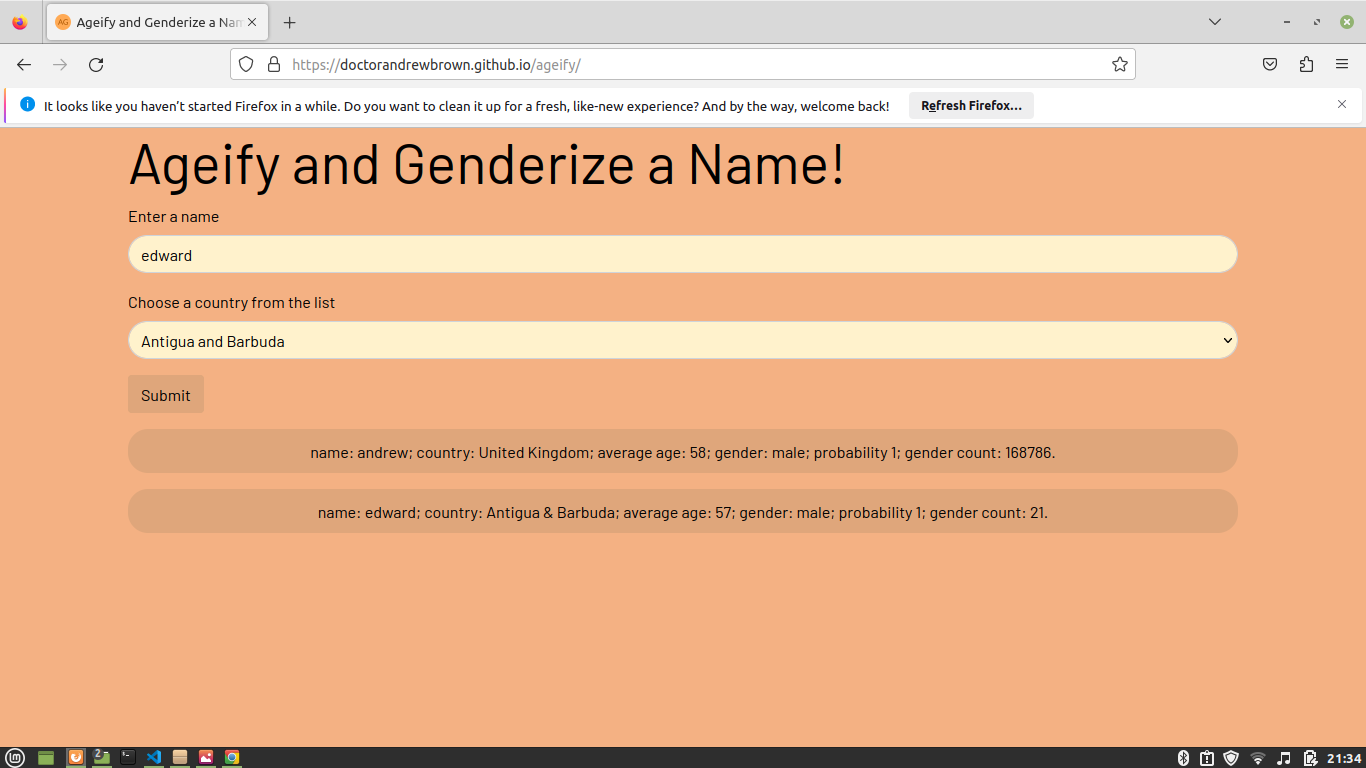
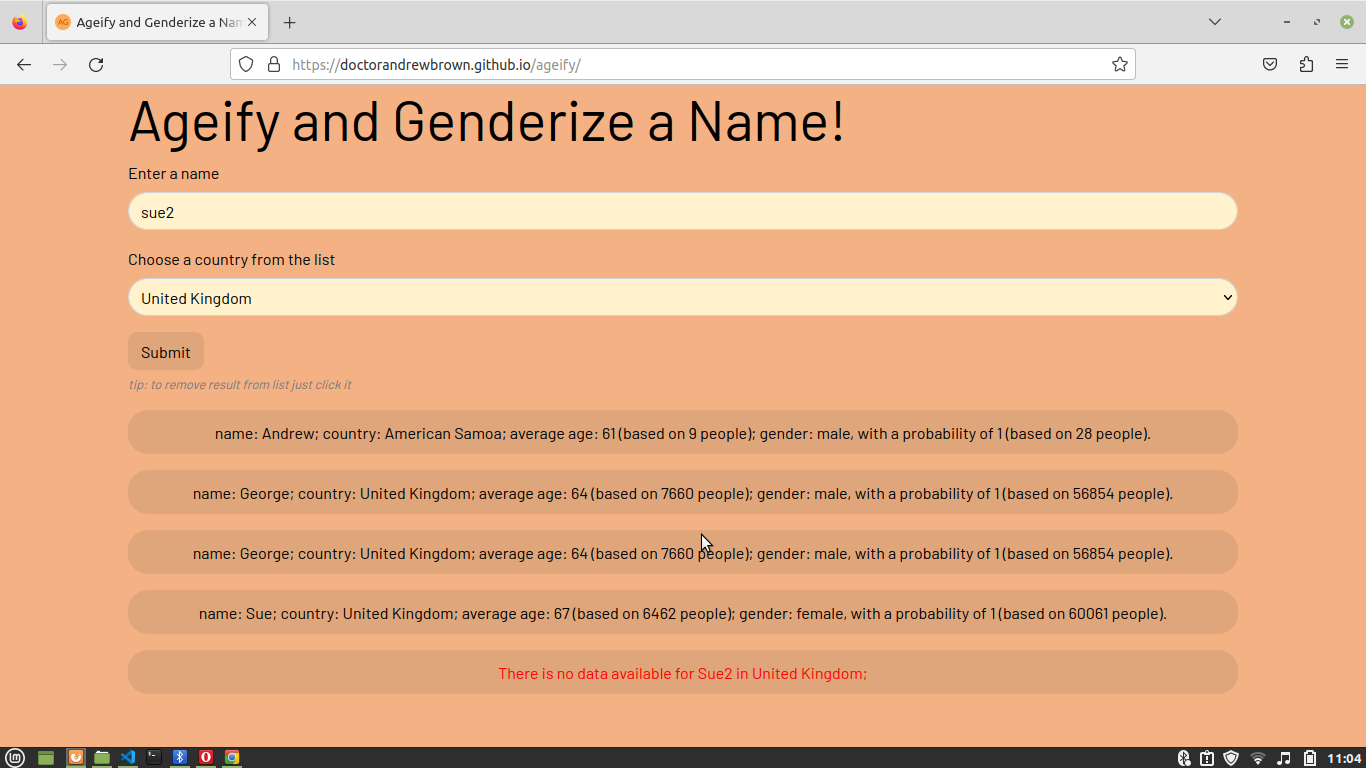
Update documentation

diff --git a/TESTING.md b/TESTING.md
@@ -37,7 +37,7 @@ I've tested my deployed project on multiple browsers to check for compatibility 
 
 | Browser | Screenshot | Notes |
 | --- | --- | --- |
-| Chrome | ![screenshot](documentation/chrome.png) | Works as expected |
+| Chrome | ![screenshot](documentation/chrome.png) | Problem with correct rendering of style in laptop view when using github pages hosting in chrome browser|
 | Firefox | ![screenshot](documentation/firefox.png) | Works as expected |
 | Opera | ![screenshot](documentation/opera.png) | Works as expected |
 
@@ -50,7 +50,7 @@ I've tested my deployed project on multiple devices to check for responsiveness 
 | --- | --- | --- |
 | Mobile (DevTools) | ![screenshot](documentation/responsive-mobile.png) | Works as expected |
 | Tablet (DevTools) | ![screenshot](documentation/responsive-tablet.png) | Works as expected |
-| Laptop | ![screenshot](documentation/responsive-laptop.png) | Works as expected |
+| Laptop | ![screenshot](documentation/responsive-laptop.png) | Problem with styling in chrome browser. Works as expected in Opera and Firefox |
 | Samsung Galaxy mobile phone (real device) | ![screenshot](documentation/responsive-galaxy.jpg) | Works as expected |
 | Samsung Galaxy mobile phone (real device) | ![screenshot](documentation/responsive-menu.jpg) | Works as expected |
 ## Lighthouse Audit
@@ -94,10 +94,10 @@ from the respective feature.
 | User Story | Screenshot | Comments |
 | --- | --- |----|
 | As a new site user, I would like to enter a name and country, so that I can find the average age and probable gender for the name for that country. | ![screenshot](documentation/stories1.png) |
-| As a new site user, I would like to have results for multiple requests shown as a list, so that I can make comparisons e.g. same name in different countries. | ![screenshot](documentation/feature02.png) |
-| As a new site user, I would like to have the ability to remove unwanted results from display, so that I can keep results uncluttered for recording in a screen shot for example. | ![screenshot](documentation/feature03.png) |
-| As a new user I would like to be able to find what proportion of people in the UK who are named Ashley are males?| ![screenshot](documentation/feature04.png) |
-| As a new user I would like to find the average age of people in USA who are named George? | ![screenshot](documentation/feature05.png) |
+| As a new site user, I would like to have results for multiple requests shown as a list, so that I can make comparisons e.g. same name in different countries. | ![screenshot](documentation/stories2.png) |
+| As a new site user, I would like to have the ability to remove unwanted results from display so that I can keep results uncluttered (for recording in a screen shot for example). The screenshots show the same results list before and after the result for a non-existant name removed| ![screenshot](documentation/stories3a.png) |![screenshot](documentation/stories3b.png)|
+| As a new user I would like to be able to find what proportion of people in the UK who are named Ashley are males?| ![screenshot](documentation/stories4.png) |
+| As a new user I would like to find the average age of people in USA who are named George? | ![screenshot](documentation/stories5.png) |
 
 ## Automated Testing
 

diff --git a/README.md b/README.md
@@ -120,7 +120,7 @@ IMPORTANT: Remember to always include a screenshot of each individual feature!
 
 - **Name input field**
  
-    - This feature allow a user to input any name they wish to check. Explanatory placeholder text is provided, the field is required and the onfocus attribute ensures one-click only is needed to clear the field for subsequent entries.
+    - This feature allows a user to input any name they wish to check. Explanatory placeholder text is provided, the field is required and the onfocus attribute ensures one-click only is needed to clear the field for subsequent queries.
     - ![screenshot](documentation/feature-name.png)
 
 
